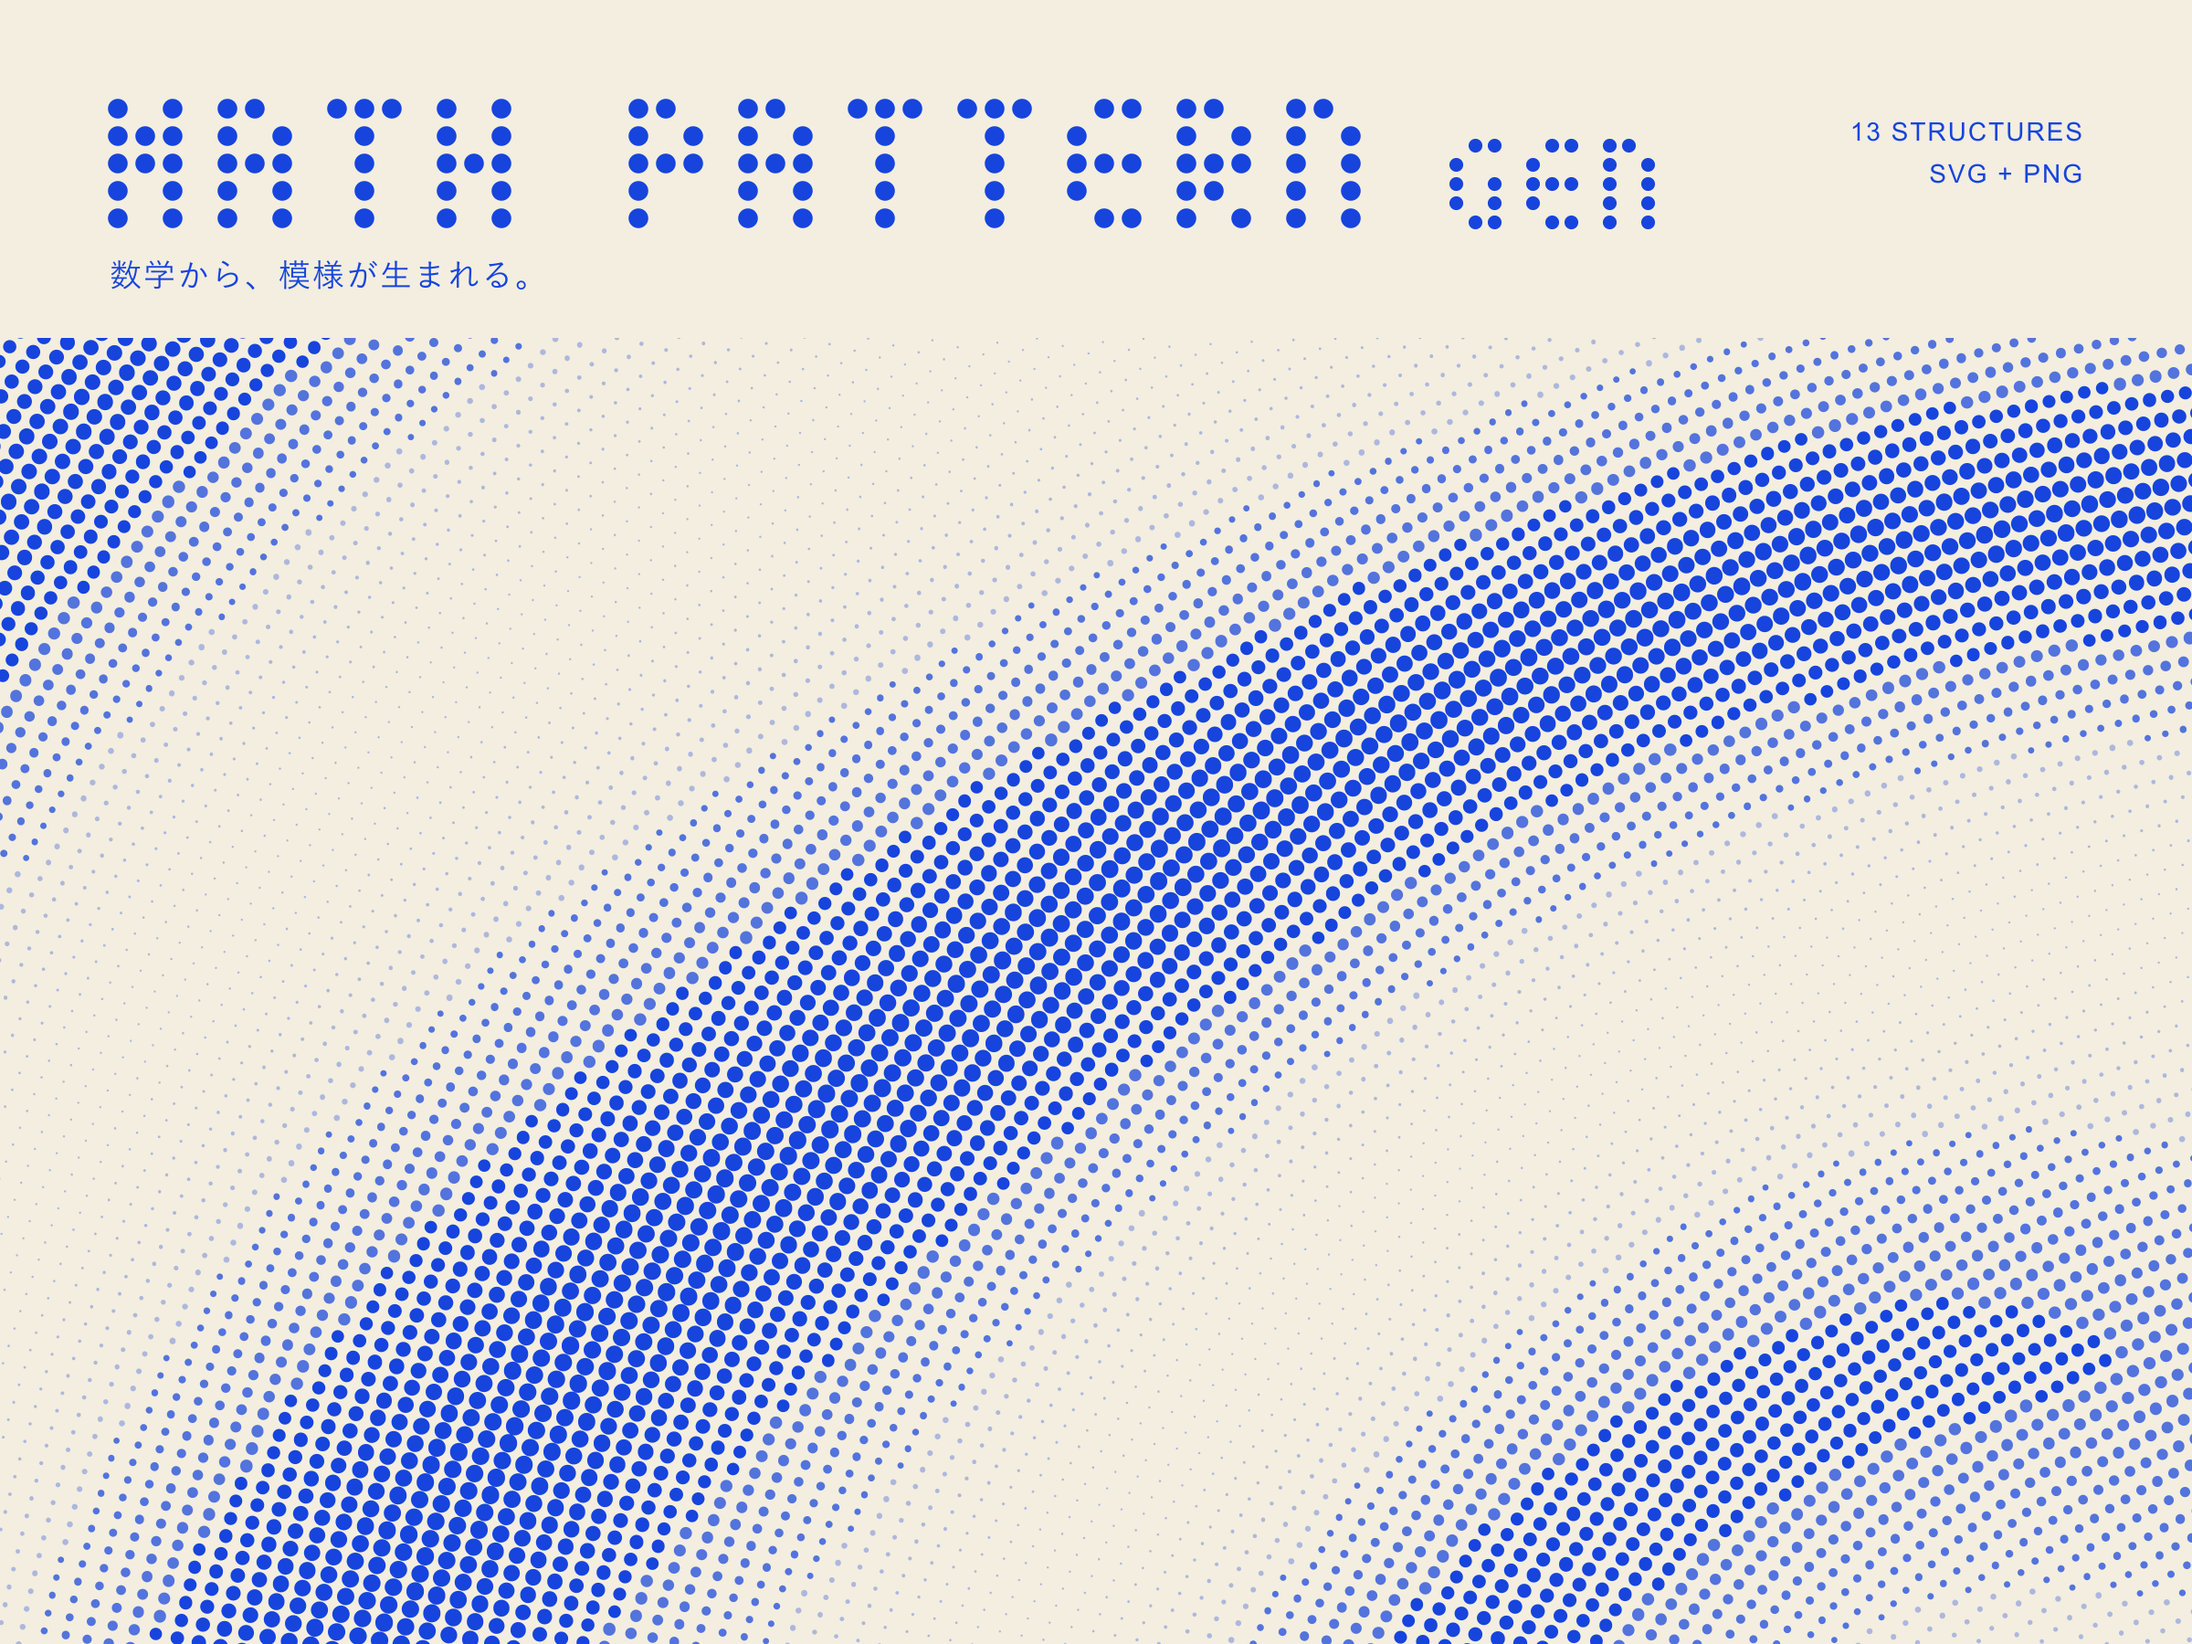
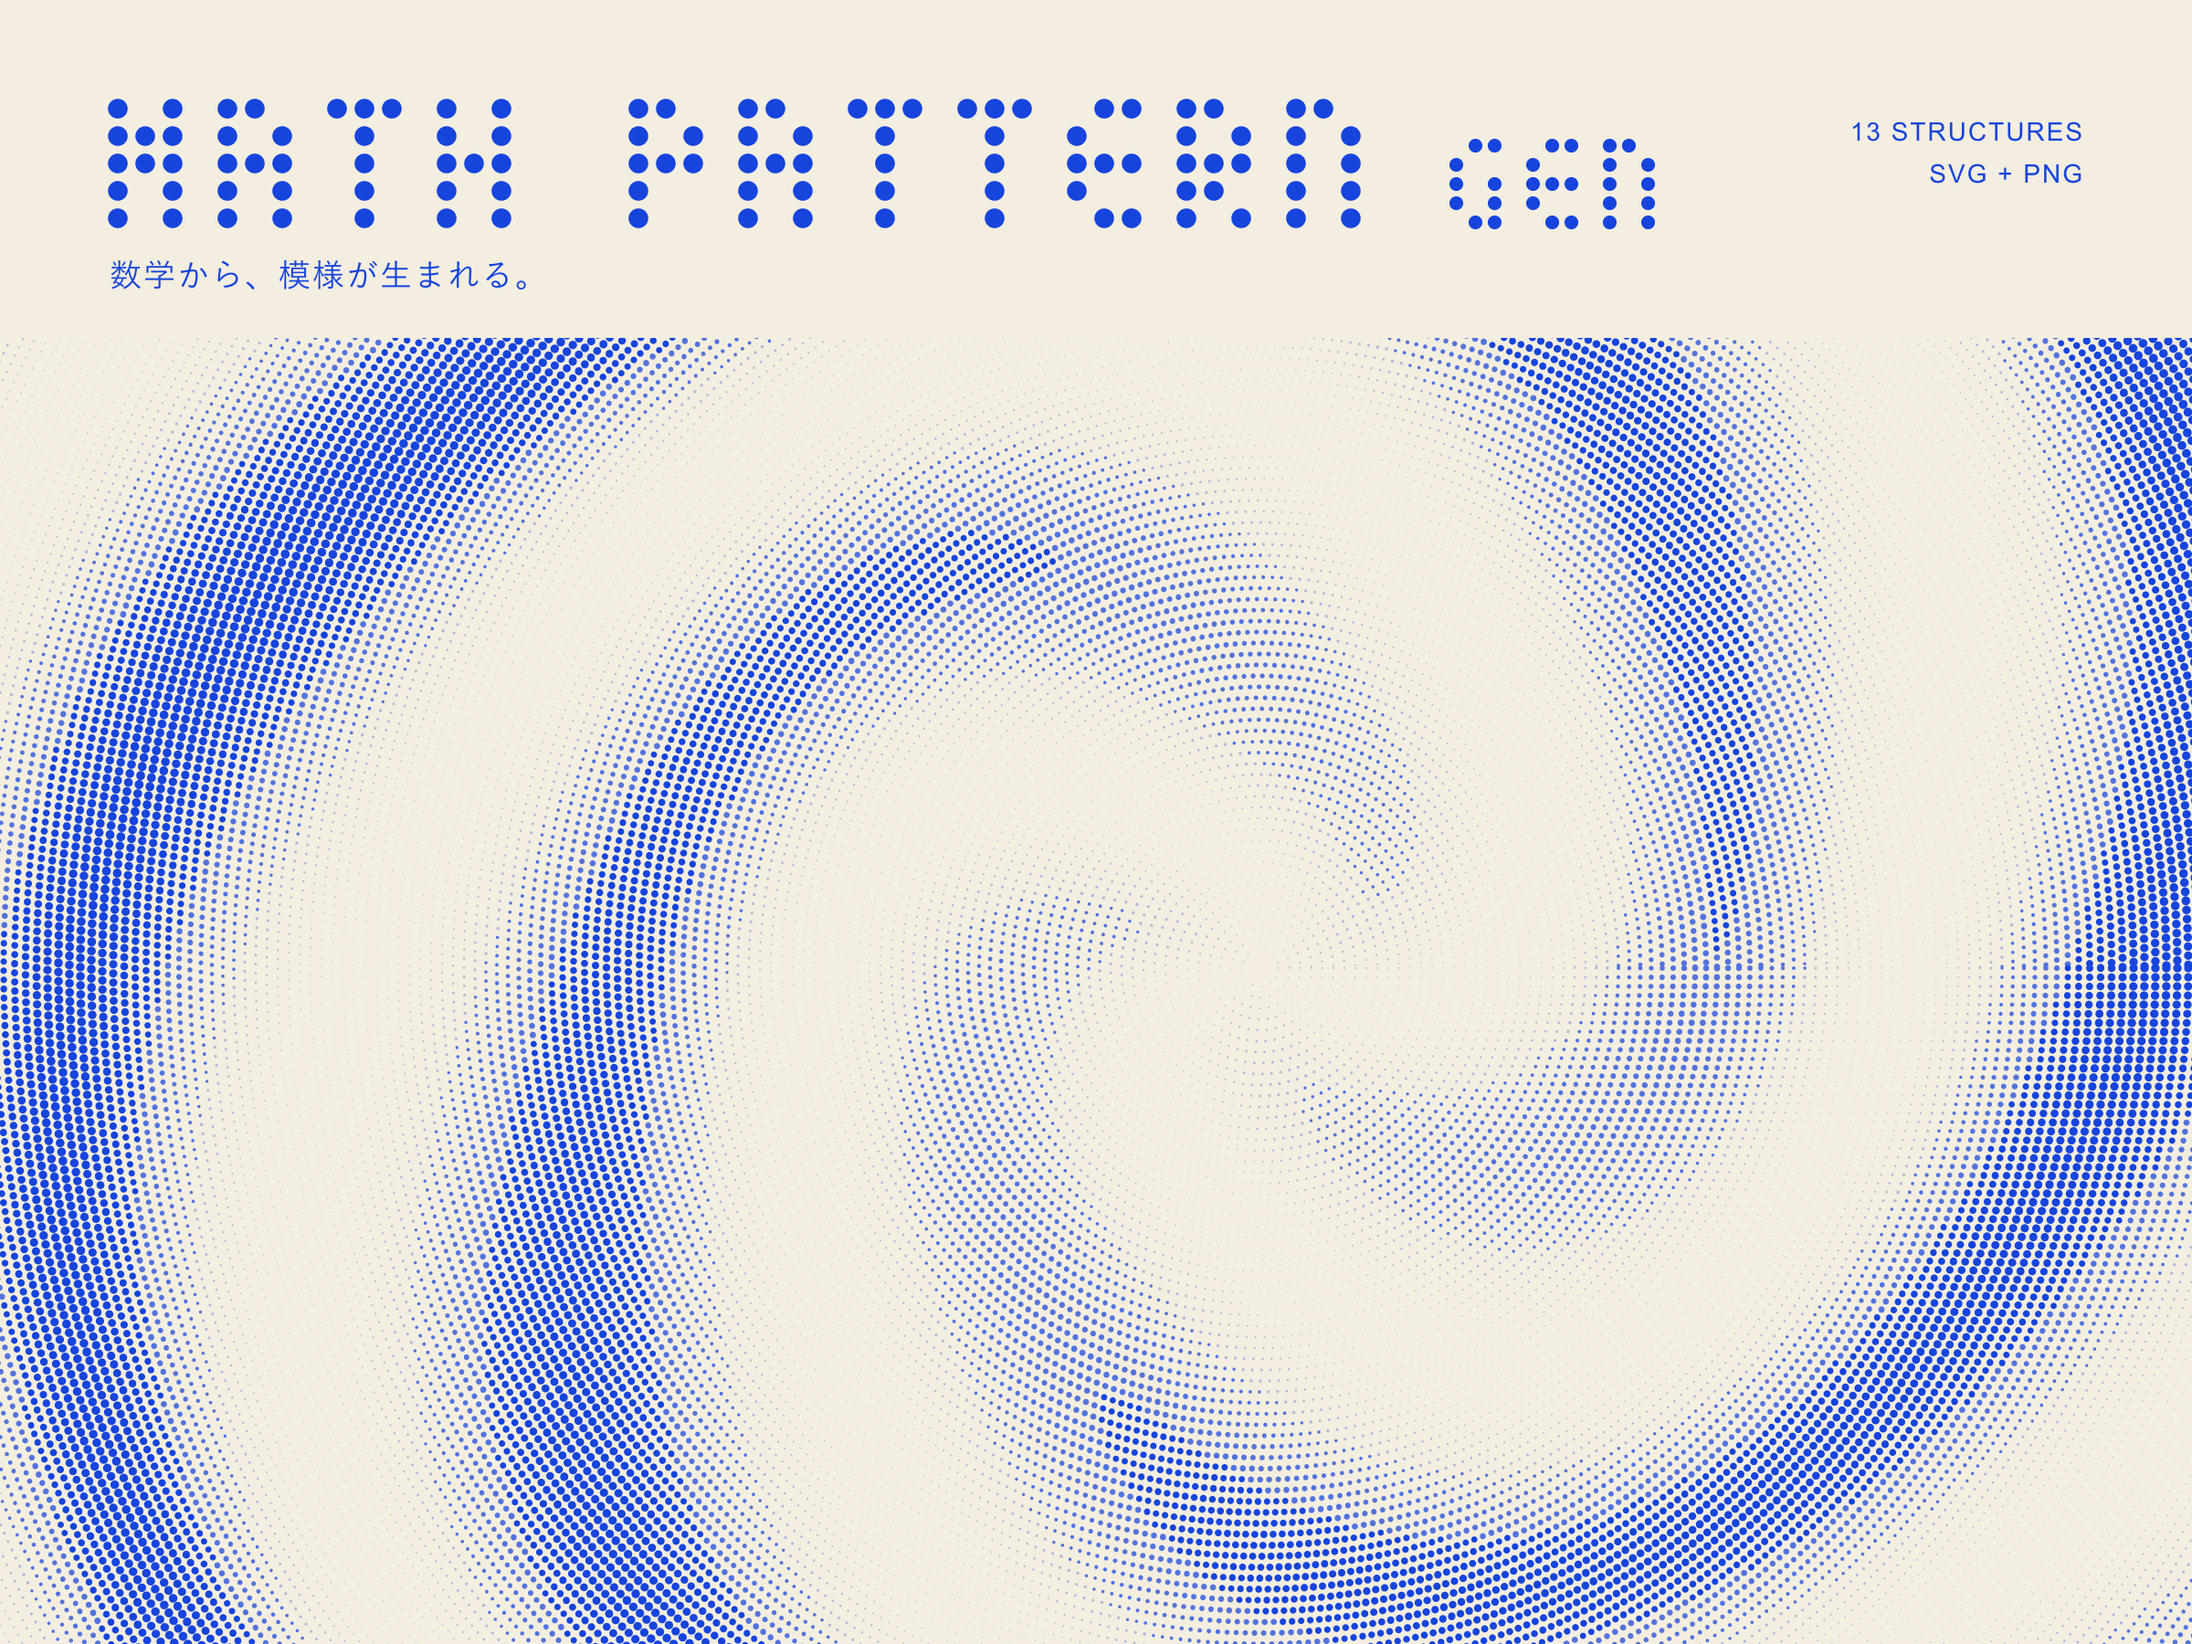
Make guilloche the launch and social visual

Changed region(s): [[0.0, 0.1867, 1.0, 1.0]]

diff --git a/index.html b/index.html
@@ -13,7 +13,7 @@
 <meta property="og:description" content="点の間隔を変える。波を重ねる。色を選ぶ。13種類の数学的な構造から、背景パターンをつくる小さな実験室。SVG・PNGで持ち出せます。">
 <meta property="og:url" content="https://martin-ushiyama.github.io/math-pattern-gen/">
 <meta property="og:locale" content="ja_JP">
-<meta property="og:image" content="https://martin-ushiyama.github.io/math-pattern-gen/assets/brand/ogp.png">
+<meta property="og:image" content="https://martin-ushiyama.github.io/math-pattern-gen/assets/brand/ogp-guilloche.png">
 <meta property="og:image:type" content="image/png">
 <meta property="og:image:width" content="1200">
 <meta property="og:image:height" content="630">
@@ -22,7 +22,7 @@
 <meta name="twitter:creator" content="@mrtn">
 <meta name="twitter:title" content="Math Pattern Gen — 数学から、模様が生まれる。">
 <meta name="twitter:description" content="13種類の数学的な構造を、触って、変えて、背景に。ブラウザでつくって、SVG・PNGで持ち出せます。">
-<meta name="twitter:image" content="https://martin-ushiyama.github.io/math-pattern-gen/assets/brand/ogp.png">
+<meta name="twitter:image" content="https://martin-ushiyama.github.io/math-pattern-gen/assets/brand/ogp-guilloche.png">
 <meta name="twitter:image:alt" content="クリーム色の地に青いドットロゴと、大きく波打つ極格子の模様。数学から、模様が生まれる。">
 <link rel="icon" href="assets/brand/favicon.ico" sizes="16x16 32x32 48x48">
 <link rel="icon" type="image/png" sizes="32x32" href="assets/brand/favicon-32.png">

diff --git a/scripts/structures.template.html b/scripts/structures.template.html
@@ -10,7 +10,7 @@
 <meta property="og:title" content="構造一覧 — Math Pattern Gen">
 <meta property="og:description" content="{{COUNT}}種類の模様を、見た目から選ぼう。">
 <meta property="og:url" content="https://martin-ushiyama.github.io/math-pattern-gen/structures.html">
-<meta property="og:image" content="https://martin-ushiyama.github.io/math-pattern-gen/assets/brand/ogp.png">
+<meta property="og:image" content="https://martin-ushiyama.github.io/math-pattern-gen/assets/brand/ogp-guilloche.png">
 <meta property="og:image:alt" content="Math Pattern Genの青いドットロゴと波打つ模様">
 <meta name="twitter:card" content="summary_large_image">
 <meta name="twitter:creator" content="@mrtn">

diff --git a/structures.html b/structures.html
@@ -10,7 +10,7 @@
 <meta property="og:title" content="構造一覧 — Math Pattern Gen">
 <meta property="og:description" content="13種類の模様を、見た目から選ぼう。">
 <meta property="og:url" content="https://martin-ushiyama.github.io/math-pattern-gen/structures.html">
-<meta property="og:image" content="https://martin-ushiyama.github.io/math-pattern-gen/assets/brand/ogp.png">
+<meta property="og:image" content="https://martin-ushiyama.github.io/math-pattern-gen/assets/brand/ogp-guilloche.png">
 <meta property="og:image:alt" content="Math Pattern Genの青いドットロゴと波打つ模様">
 <meta name="twitter:card" content="summary_large_image">
 <meta name="twitter:creator" content="@mrtn">

diff --git a/assets/brand/README.md b/assets/brand/README.md
@@ -3,8 +3,9 @@
 青 `#1644dd` とクリーム `#f3eedf`。模様とロゴを、同じドットでつなぐ配色です。
 
 - `logo.svg`：本体と共通のドットロゴ。「Gen」を小さく配置。
-- `ogp.png`：1200×630の共有用画像。OGPとX Cardで共用。
-- `ogp.svg`：共有画像の編集用原本。
+- `ogp-guilloche.png`：1200×630の共有用画像。OGPとX Cardで共用。
+- `ogp-guilloche.svg`：共有画像の編集用原本。
+- `ogp.png` / `ogp.svg`：同じ画像の互換用ファイル。
 - `favicon.svg`：青い点の流れを切り取った模様。16pxでも点の形が残るように簡略化。
 - `favicon.ico`：16・32・48pxを収録。
 - `favicon-16.png` / `favicon-32.png` / `favicon-48.png`：各サイズのPNG。
